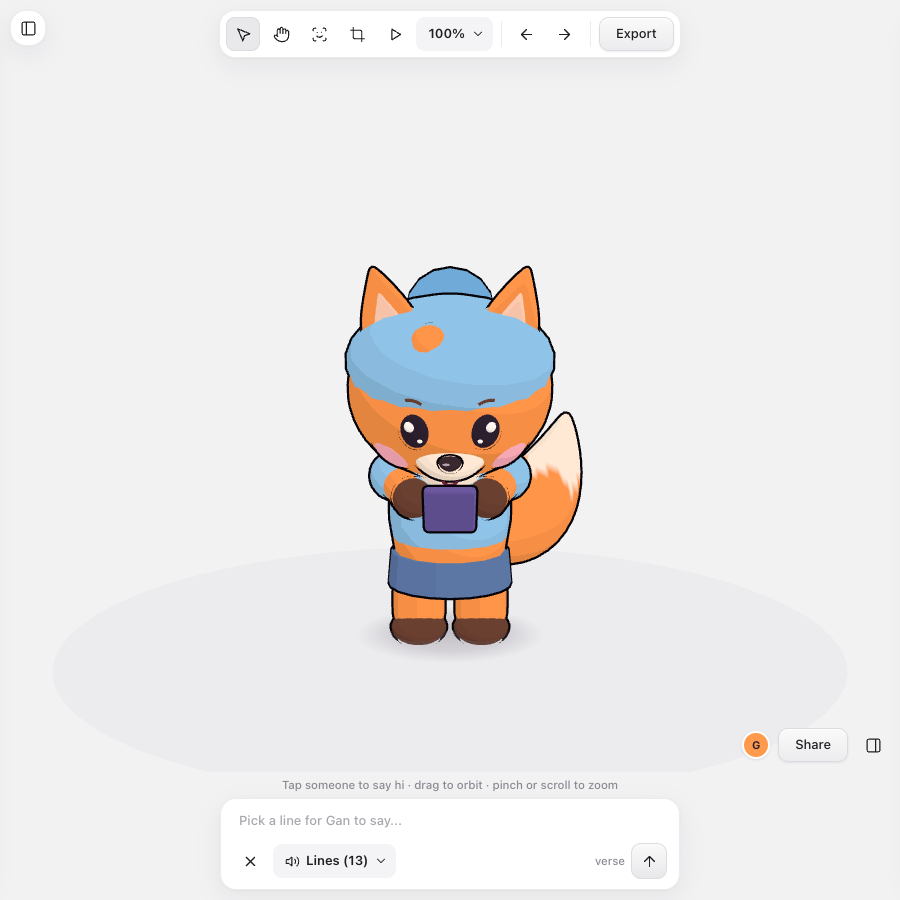
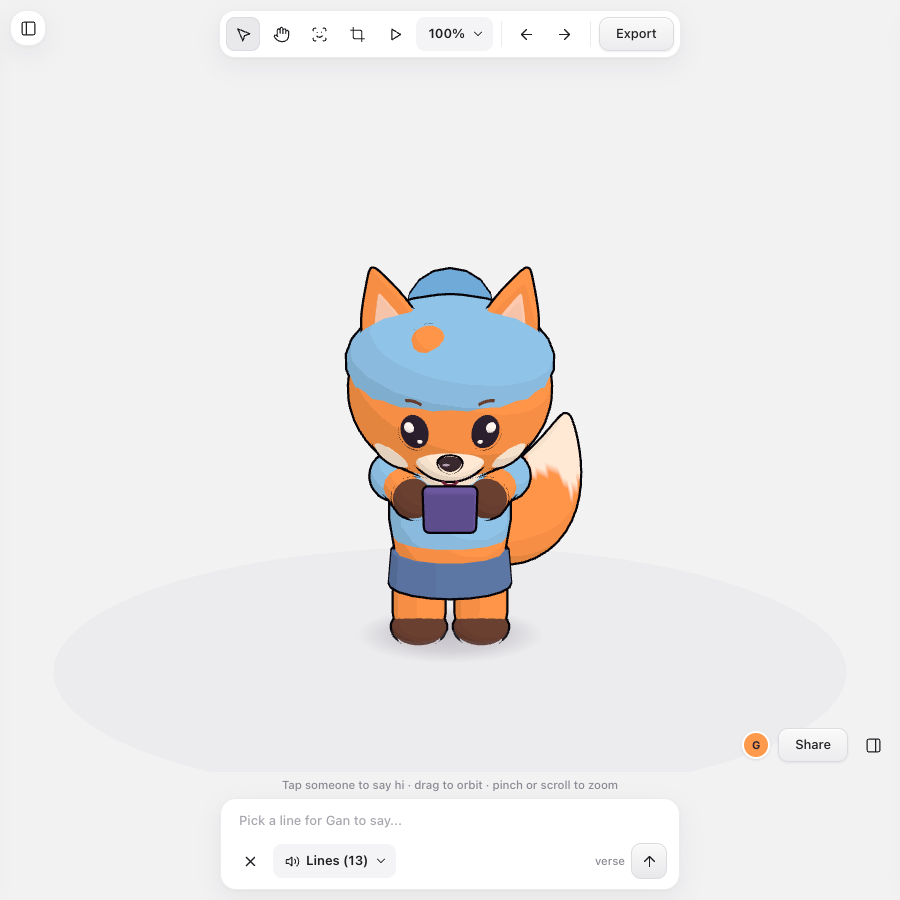
Review pages for PR 576

diff --git a/pr-preview/pr-576/review/index.html b/pr-preview/pr-576/review/index.html
@@ -37,7 +37,7 @@ button:focus-visible,.pill:focus-visible{outline:3px solid var(--ink);outline-of
 </style></head><body><main>
 <span class="chip">Check-in fix</span>
 <h1>Gan and Ken: foxes like their mom</h1>
-<p class="kaylee">Joy's boys now look like her new fox: pink puffy cheeks, a white snout, brows, cupped ears, brown paws and a big bushy tail.</p>
+<p class="kaylee">Joy's boys now look like her new fox: white puffy cheeks (hers stay pink), a white snout, brows, cupped ears, brown paws and a big bushy tail.</p>
 
 
 <h2>Before and after</h2><div class="pics"><figure class="pair"><div><img src="pics/gan-old.png" alt="Before: Gan" loading="lazy"><span>Before</span></div><div><img src="pics/gan-new.png" alt="After: Gan" loading="lazy"><span>After</span></div>
